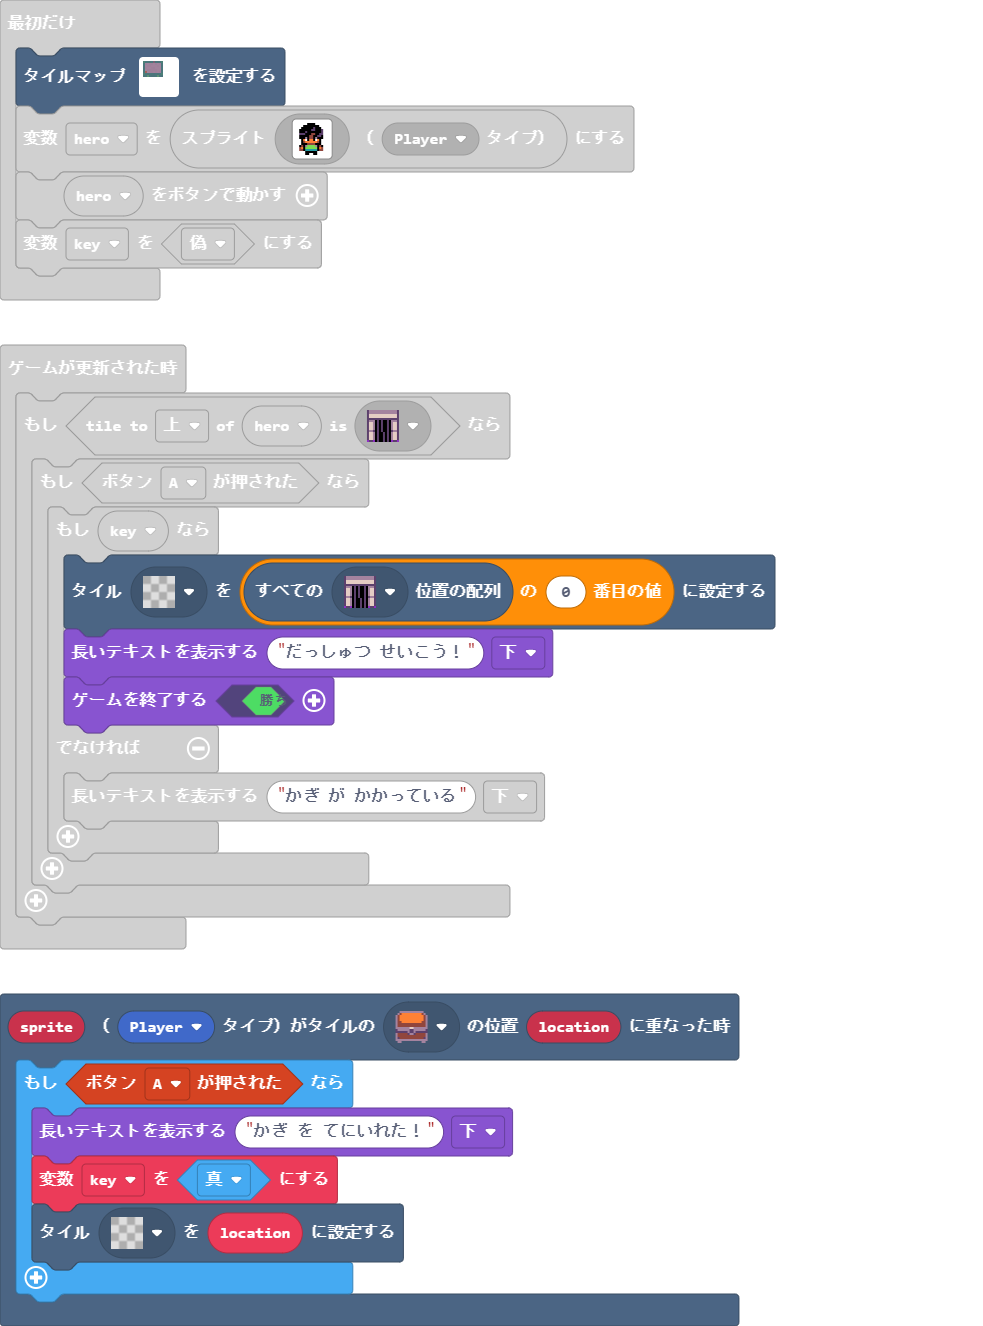
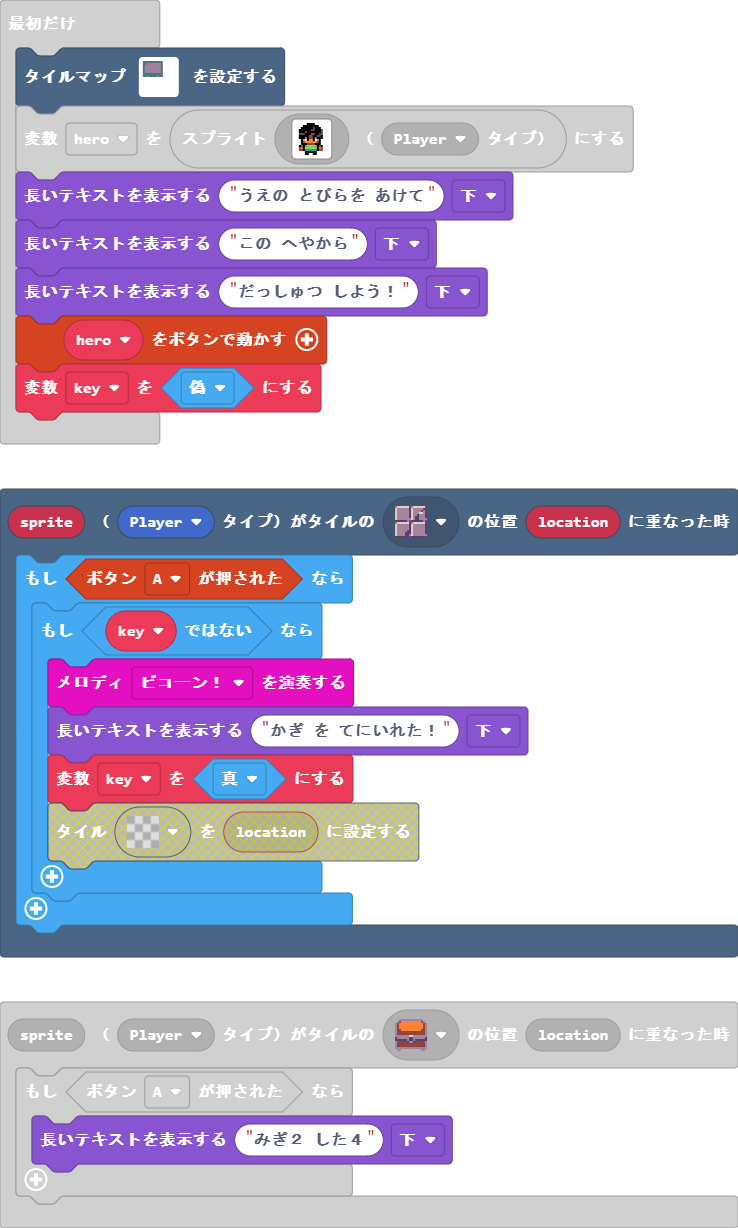
Update pxt.json, main.blocks, main.ts

diff --git a/main.ts b/main.ts
@@ -1,12 +1,19 @@
 scene.onOverlapTile(SpriteKind.Player, sprites.dungeon.chestClosed, function (sprite, location) {
     if (controller.A.isPressed()) {
-        game.showLongText("かぎ を てにいれた！", DialogLayout.Bottom)
-        key = true
-        tiles.setTileAt(location, sprites.dungeon.chestOpen)
+        game.showLongText("みぎ２ した４", DialogLayout.Bottom)
+    }
+})
+scene.onOverlapTile(SpriteKind.Player, sprites.dungeon.floorDark1, function (sprite, location) {
+    if (controller.A.isPressed()) {
+        if (!(key)) {
+            music.baDing.play()
+            game.showLongText("かぎ を てにいれた！", DialogLayout.Bottom)
+            key = true
+        }
     }
 })
 let key = false
[2 lines of base64/hex data omitted]
     2 2 2 2 2 2 2 2 2 2 . . . . . . 
     2 . . . . . . . . 2 . . . . . . 
     2 . . . . . . . . 2 . . . . . . 
@@ -42,6 +49,9 @@ let hero = sprites.create(img`
     . . . f f f f f f . . . . 
     . . . f f . . f f . . . . 
     `, SpriteKind.Player)
+game.showLongText("うえの とびらを あけて", DialogLayout.Bottom)
+game.showLongText("この へやから", DialogLayout.Bottom)
+game.showLongText("だっしゅつ しよう！", DialogLayout.Bottom)
 controller.moveSprite(hero)
 key = false
 game.onUpdate(function () {
